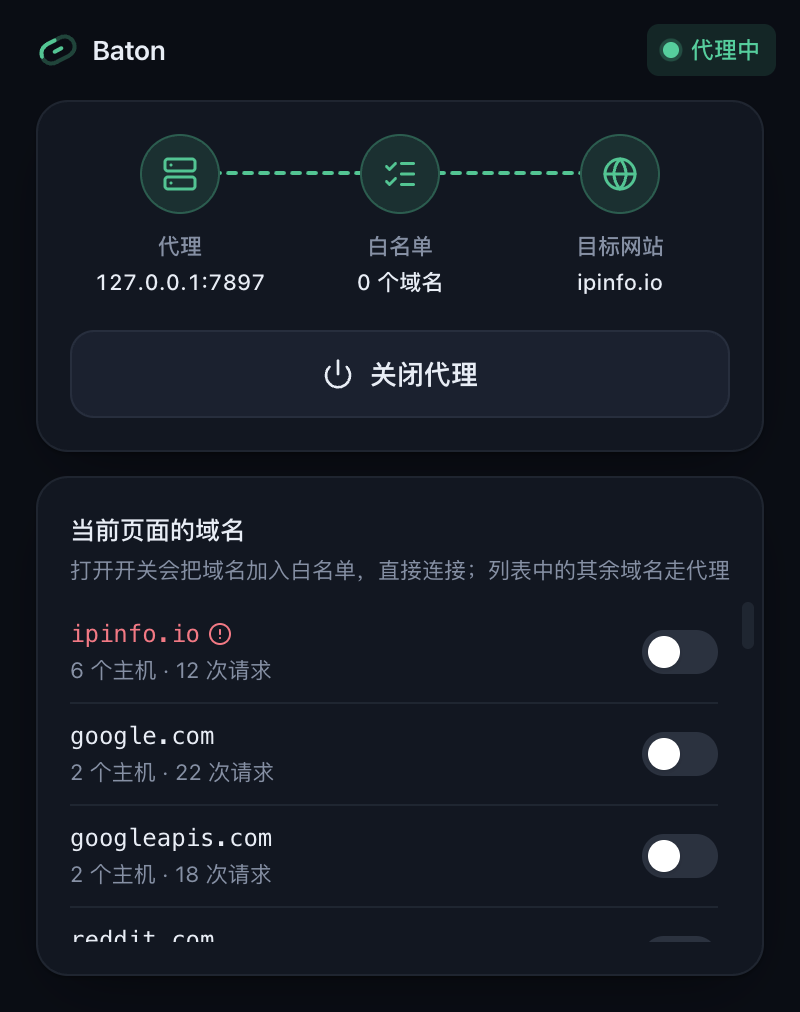
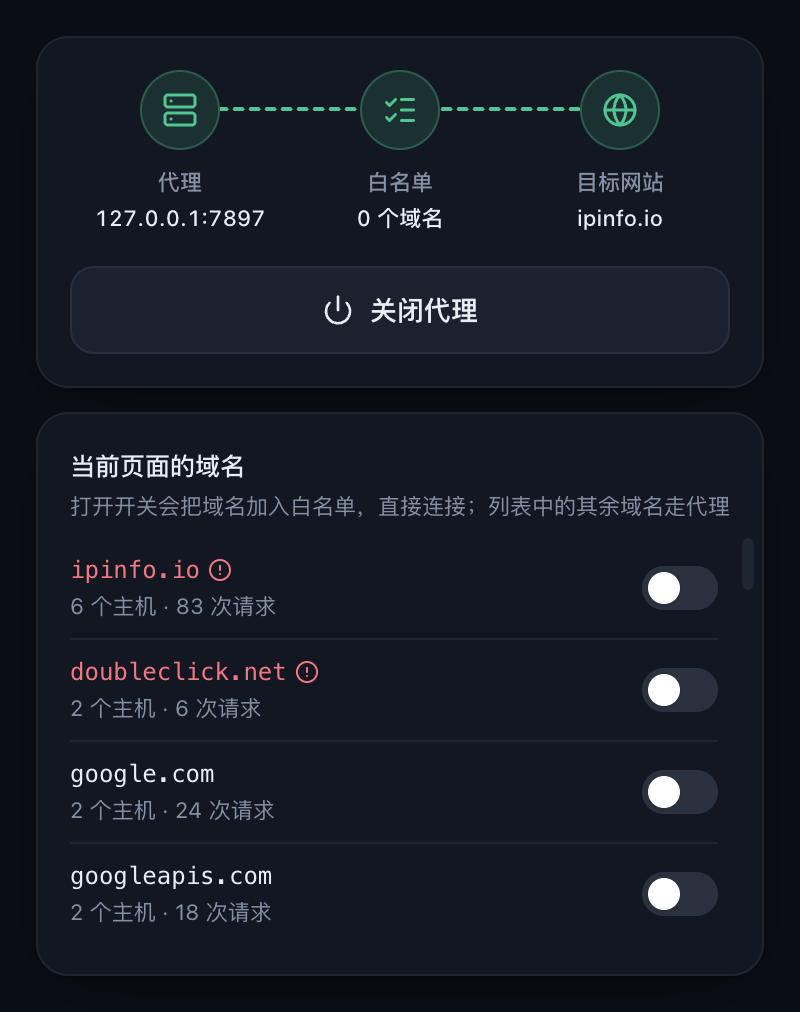
Simplify popup layout and unify theme styles
Remove the popup title bar, align spacing and typography, preserve theme-aware shadows, and refresh the screenshot.

diff --git a/src/ui/styles.css b/src/ui/styles.css
@@ -1,72 +1,25 @@
 @import "tailwindcss";
 
-:root {
-  --bg: #f2f4f8;
-  --surface: #ffffff;
-  --surface-2: #edf0f6;
-  --line: rgb(15 23 42 / 0.08);
-  --text: #0f172a;
-  --muted: #64708a;
-  --faint: #a3adc0;
-  --accent: #0e9f6e;
-  --on-accent: #ffffff;
-  --accent-soft: rgb(14 159 110 / 0.1);
-  --ok: #0ea371;
-  --ok-soft: rgb(14 163 113 / 0.12);
-  --danger: #e0445a;
-  --danger-soft: rgb(224 68 90 / 0.1);
-  --shadow: 0 1px 2px rgb(15 23 42 / 0.04), 0 8px 24px -12px rgb(15 23 42 / 0.14);
-  color-scheme: light;
-}
-
-@media (prefers-color-scheme: dark) {
-  :root {
-    --bg: #0a0d14;
-    --surface: #121722;
-    --surface-2: #1a2130;
-    --line: rgb(148 163 184 / 0.1);
-    --text: #e8edf6;
-    --muted: #8590a6;
-    --faint: #4f5a6e;
-    --accent: #34c98e;
-    --on-accent: #052e1f;
-    --accent-soft: rgb(52 201 142 / 0.14);
-    --ok: #34d399;
-    --ok-soft: rgb(52 211 153 / 0.13);
-    --danger: #fb6f84;
-    --danger-soft: rgb(251 111 132 / 0.13);
-    --shadow: 0 1px 2px rgb(0 0 0 / 0.3), 0 12px 32px -16px rgb(0 0 0 / 0.6);
-    color-scheme: dark;
-  }
-}
-
-@theme inline {
-  --color-surface: var(--surface);
-  --color-surface-2: var(--surface-2);
-  --color-line: var(--line);
-  --color-text: var(--text);
-  --color-muted: var(--muted);
-  --color-faint: var(--faint);
-  --color-accent: var(--accent);
-  --color-on-accent: var(--on-accent);
-  --color-accent-soft: var(--accent-soft);
-  --color-ok: var(--ok);
-  --color-ok-soft: var(--ok-soft);
-  --color-danger: var(--danger);
-  --color-danger-soft: var(--danger-soft);
-  --shadow-card: var(--shadow);
-  --text-caption: 11px;
+@theme static {
+  --color-bg: #f2f4f8;
+  --color-surface: #ffffff;
+  --color-surface-2: #edf0f6;
+  --color-line: rgb(15 23 42 / 0.08);
+  --color-text: #0f172a;
+  --color-muted: #64708a;
+  --color-faint: #a3adc0;
+  --color-accent: #0e9f6e;
+  --color-on-accent: #ffffff;
+  --color-accent-soft: rgb(14 159 110 / 0.1);
+  --color-danger: #e0445a;
+  --color-danger-soft: rgb(224 68 90 / 0.1);
+  --shadow-card: var(--card-shadow);
+  --text-caption: 11.5px;
   --text-caption--line-height: 16px;
-  --text-label: 11.5px;
-  --text-label--line-height: 16px;
-  --text-code: 12px;
-  --text-code--line-height: 16px;
   --text-body: 12.5px;
   --text-body--line-height: 20px;
-  --text-title: 13.5px;
+  --text-title: 14px;
   --text-title--line-height: 20px;
-  --text-heading: 14px;
-  --text-heading--line-height: 20px;
   --font-sans:
     -apple-system,
     BlinkMacSystemFont,
@@ -78,12 +31,57 @@
     system-ui,
     sans-serif;
   --font-mono: ui-monospace, "SF Mono", "Cascadia Mono", Menlo, Consolas, monospace;
+  --animate-relay-flow: relay-flow 0.8s linear infinite;
+  --animate-sheet-up: sheet-up 0.22s cubic-bezier(0.2, 0.8, 0.2, 1);
+  --animate-sheet-fade: sheet-fade 0.2s ease-out;
+
+  @keyframes relay-flow {
+    to {
+      stroke-dashoffset: -16;
+    }
+  }
+
+  @keyframes sheet-up {
+    from {
+      transform: translateY(100%);
+    }
+  }
+
+  @keyframes sheet-fade {
+    from {
+      opacity: 0;
+    }
+  }
+}
+
+:root {
+  --card-shadow: 0 1px 2px rgb(15 23 42 / 0.04), 0 8px 24px -12px rgb(15 23 42 / 0.14);
+  color-scheme: light dark;
+}
+
+@media (prefers-color-scheme: dark) {
+  :root {
+    --color-bg: #0a0d14;
+    --color-surface: #121722;
+    --color-surface-2: #1a2130;
+    --color-line: rgb(148 163 184 / 0.1);
+    --color-text: #e8edf6;
+    --color-muted: #8590a6;
+    --color-faint: #4f5a6e;
+    --color-accent: #34c98e;
+    --color-on-accent: #052e1f;
+    --color-accent-soft: rgb(52 201 142 / 0.14);
+    --color-danger: #fb6f84;
+    --color-danger-soft: rgb(251 111 132 / 0.13);
+    --card-shadow: 0 1px 2px rgb(0 0 0 / 0.3), 0 12px 32px -16px rgb(0 0 0 / 0.6);
+  }
 }
 
 body {
-  background: var(--bg);
-  color: var(--text);
-  font-size: 13px;
+  background: var(--color-bg);
+  color: var(--color-text);
+  font-size: var(--text-body);
+  line-height: var(--text-body--line-height);
   -webkit-font-smoothing: antialiased;
   user-select: none;
   cursor: default;
@@ -98,61 +96,6 @@ input {
 }
 
 ::-webkit-scrollbar-thumb {
-  background: var(--line);
+  background: var(--color-line);
   border-radius: 3px;
-}
-
-@keyframes relay-flow {
-  to {
-    stroke-dashoffset: -16;
-  }
-}
-
-.relay-flow {
-  stroke-dasharray: 4 4;
-  animation: relay-flow 0.8s linear infinite;
-}
-
-@keyframes pulse-ring {
-  from {
-    opacity: 0.45;
-  }
-  to {
-    transform: scale(1.9);
-    opacity: 0;
-  }
-}
-
-.pulse-ring {
-  animation: pulse-ring 1.8s ease-out infinite;
-}
-
-@keyframes sheet-up {
-  from {
-    transform: translateY(100%);
-  }
-}
-
-.sheet-up {
-  animation: sheet-up 0.22s cubic-bezier(0.2, 0.8, 0.2, 1);
-}
-
-@keyframes sheet-fade {
-  from {
-    opacity: 0;
-  }
-}
-
-.sheet-fade {
-  animation: sheet-fade 0.2s ease-out;
-}
-
-@keyframes logo-run {
-  to {
-    stroke-dashoffset: -100;
-  }
-}
-
-.logo-run {
-  animation: logo-run 1.4s linear infinite;
 }

diff --git a/src/ui/components.tsx b/src/ui/components.tsx
@@ -35,12 +35,12 @@ export function SectionHeader({title, hint}: {title: string; hint: string;}) {
 }
 
 export function EmptyState({children}: {children: ReactNode;}) {
-  return <p className='py-3 text-center text-label text-muted'>{children}</p>;
+  return <p className='py-3 text-center text-caption text-muted'>{children}</p>;
 }
 
 export function ErrorNote({children}: {children: ReactNode;}) {
   return (
-    <div className='flex items-start gap-2 rounded-lg bg-danger-soft px-3 py-2 text-label text-danger'>
+    <div className='flex items-start gap-2 rounded-lg bg-danger-soft px-3 py-2 text-caption text-danger'>
       <TriangleAlert className='my-0.5 size-3.5 shrink-0' />
       <span className='wrap-anywhere'>{children}</span>
     </div>
@@ -63,7 +63,7 @@ export function Segmented<T extends string>(
           aria-pressed={option.value === value}
           onClick={() => onChange(option.value)}
           className={cn(
-            'rounded-md px-2.5 py-1 text-label font-medium transition',
+            'rounded-md px-2.5 py-1 text-caption font-medium transition',
             option.value === value
               ? 'bg-surface text-text shadow-sm'
               : 'text-muted hover:text-text',
@@ -110,7 +110,7 @@ export function PasswordField(props: Omit<TextFieldProps, 'type' | 'trailing'>) 
           tabIndex={-1}
           title={reveal ? t.common.hidePassword : t.common.showPassword}
           onClick={() => setReveal(value => !value)}
-          className='mr-0.5'
+          className='mr-1'
         >
           {reveal ? <EyeOff className='size-3.5' /> : <Eye className='size-3.5' />}
         </IconButton>
@@ -216,21 +216,21 @@ export function Sheet(
 
   return (
     <div className='fixed inset-0 z-10 flex flex-col justify-end'>
-      <div className='sheet-fade absolute inset-0 bg-black/35' onClick={onClose} />
+      <div className='animate-sheet-fade absolute inset-0 bg-black/35' onClick={onClose} />
       <form
-        className='sheet-up relative flex max-h-[88%] flex-col rounded-t-2xl border-t border-line bg-surface shadow-card'
+        className='animate-sheet-up relative flex max-h-[88%] flex-col rounded-t-2xl border-t border-line bg-surface shadow-card'
         onSubmit={submit}
       >
         <header className='flex flex-col gap-0.5 px-4 pt-4'>
           <div className='flex items-center justify-between gap-3'>
-            <h2 className='text-heading font-semibold tracking-tight'>{title}</h2>
-            <IconButton title={t.common.close} onClick={onClose}>
+            <h2 className='text-title font-semibold tracking-tight'>{title}</h2>
+            <IconButton title={t.common.close} onClick={onClose} className='-mr-1.5'>
               <X className='size-4' />
             </IconButton>
           </div>
-          <p className='text-label text-muted'>{hint}</p>
+          <p className='text-caption text-muted'>{hint}</p>
         </header>
-        <div className='flex min-h-0 flex-col gap-3 overflow-y-auto px-4 pt-3.5'>{children}</div>
+        <div className='flex min-h-0 flex-col gap-3 overflow-y-auto px-4 pt-3'>{children}</div>
         <footer className='flex justify-end gap-2 p-4'>
           <Button onClick={onClose}>{t.common.cancel}</Button>
           <Button type='submit' variant='primary'>{t.common.save}</Button>

diff --git a/src/background/actionIcon.ts b/src/background/actionIcon.ts
@@ -1,15 +1,12 @@
 import { t } from '@/shared/i18n';
-import {
-  LOGO_ACTIVE_COLOR,
-  LOGO_BAR_PATH,
-  LOGO_GLYPH_COLOR,
-  LOGO_INACTIVE_COLOR,
-  LOGO_ROTATION_DEGREES,
-  LOGO_TRACK_PATH,
-} from '@/shared/logo';
 
-const TRACK_PATH = new Path2D(LOGO_TRACK_PATH);
-const BAR_PATH = new Path2D(LOGO_BAR_PATH);
+const ACTIVE_COLOR = '#34c98e';
+const INACTIVE_COLOR = '#8590a6';
+const GLYPH_COLOR = '#052e1f';
+const ROTATION_DEGREES = -28;
+
+const TRACK_PATH = new Path2D('M8 6.5h8a5.5 5.5 0 0 1 0 11H8a5.5 5.5 0 0 1 0-11Z');
+const BAR_PATH = new Path2D('M10 12h4');
 
 function renderIcon(size: number, background: string): ImageData {
   const canvas = new OffscreenCanvas(size, size);
@@ -21,9 +18,9 @@ function renderIcon(size: number, background: string): ImageData {
   context.fill();
   context.translate(512, 512);
   context.scale(36, 36);
-  context.rotate((LOGO_ROTATION_DEGREES * Math.PI) / 180);
+  context.rotate((ROTATION_DEGREES * Math.PI) / 180);
   context.translate(-12, -12);
-  context.strokeStyle = LOGO_GLYPH_COLOR;
+  context.strokeStyle = GLYPH_COLOR;
   context.lineWidth = 2.6;
   context.lineCap = 'round';
   context.stroke(TRACK_PATH);
@@ -32,7 +29,7 @@ function renderIcon(size: number, background: string): ImageData {
 }
 
 export async function updateActionIcon(active: boolean): Promise<void> {
-  const background = active ? LOGO_ACTIVE_COLOR : LOGO_INACTIVE_COLOR;
+  const background = active ? ACTIVE_COLOR : INACTIVE_COLOR;
   await Promise.all([
     chrome.action.setIcon({
       imageData: {16: renderIcon(16, background), 32: renderIcon(32, background)},

diff --git a/src/popup/PageDomainsCard.tsx b/src/popup/PageDomainsCard.tsx
@@ -34,11 +34,11 @@ function DomainRow({activity, onWhitelist}: {activity: DomainActivity; onWhiteli
     ? `${interpolate(t.domains.hosts, {count: activity.hostCount})} · ${requests}`
     : requests;
   return (
-    <div className='flex items-center gap-3 py-2'>
+    <div className='flex items-center gap-3 py-2.5 first:pt-0 last:pb-0'>
       <div className='flex min-w-0 flex-1 flex-col gap-0.5'>
         <span
           className={cn(
-            'flex items-center gap-1 font-mono text-code',
+            'flex items-center gap-1 font-mono text-body',
             activity.failed && 'text-danger',
           )}
         >
@@ -66,7 +66,7 @@ export function PageDomainsCard({tabId}: {tabId: number;}) {
   }, [hosts, whitelist]);
   const emptyMessage = Object.keys(hosts).length === 0 ? t.domains.empty : t.domains.allWhitelisted;
   return (
-    <Card className='min-h-0 gap-2'>
+    <Card className='min-h-0 gap-3'>
       <SectionHeader title={t.domains.title} hint={t.domains.hint} />
       {proxiedDomains.length === 0
         ? <EmptyState>{emptyMessage}</EmptyState>

diff --git a/src/popup/Popup.tsx b/src/popup/Popup.tsx
@@ -7,7 +7,6 @@ import { PageDomainsCard } from './PageDomainsCard';
 import { usePopupStore } from './popupStore';
 import { ProxySheet } from './ProxySheet';
 import { RelayCard } from './RelayCard';
-import { TitleBar } from './TitleBar';
 import { useActiveTab } from './useActiveTab';
 import { WhitelistSheet } from './WhitelistSheet';
 
@@ -19,9 +18,8 @@ export function Popup() {
   useEffect(() => initialize(), [initialize]);
   return (
     <div className={cn('flex max-h-[506px] w-100 flex-col', sheet && 'min-h-120')}>
-      <TitleBar />
       {ready && (
-        <main className='flex min-h-0 flex-1 flex-col gap-3 px-4.5 pb-4.5'>
+        <main className='flex min-h-0 flex-1 flex-col gap-3 p-4'>
           <Notices />
           <RelayCard host={tab?.host ?? null} />
           {tab?.host && <PageDomainsCard tabId={tab.id} />}

diff --git a/src/popup/WhitelistSheet.tsx b/src/popup/WhitelistSheet.tsx
@@ -57,7 +57,7 @@ export function WhitelistSheet() {
           <div className='flex min-h-0 flex-col divide-y divide-line overflow-y-auto rounded-lg border border-line'>
             {draft.map(pattern => (
               <div key={pattern} className='flex h-9 shrink-0 items-center gap-2 pr-1.5 pl-3'>
-                <span className='min-w-0 flex-1 truncate font-mono text-code'>{pattern}</span>
+                <span className='min-w-0 flex-1 truncate font-mono text-body'>{pattern}</span>
                 <IconButton
                   title={t.whitelistSheet.remove}
                   onClick={() => remove(pattern)}

diff --git a/src/popup/RelayTrack.tsx b/src/popup/RelayTrack.tsx
@@ -57,7 +57,8 @@ export function RelayTrack(
             y2='0'
             strokeWidth='2'
             strokeLinecap='round'
-            className={active ? 'relay-flow stroke-accent' : 'stroke-line'}
+            strokeDasharray={active ? '4 4' : undefined}
+            className={active ? 'animate-relay-flow stroke-accent' : 'stroke-line'}
           />
         </svg>
       </div>

diff --git a/src/ui/cn.ts b/src/ui/cn.ts
@@ -1,5 +1,3 @@
 import { extendTailwindMerge } from 'tailwind-merge';
 
-export const cn = extendTailwindMerge({
-  extend: {theme: {text: ['caption', 'label', 'code', 'body', 'title', 'heading']}},
-});
+export const cn = extendTailwindMerge({extend: {theme: {text: ['caption', 'body', 'title']}}});
